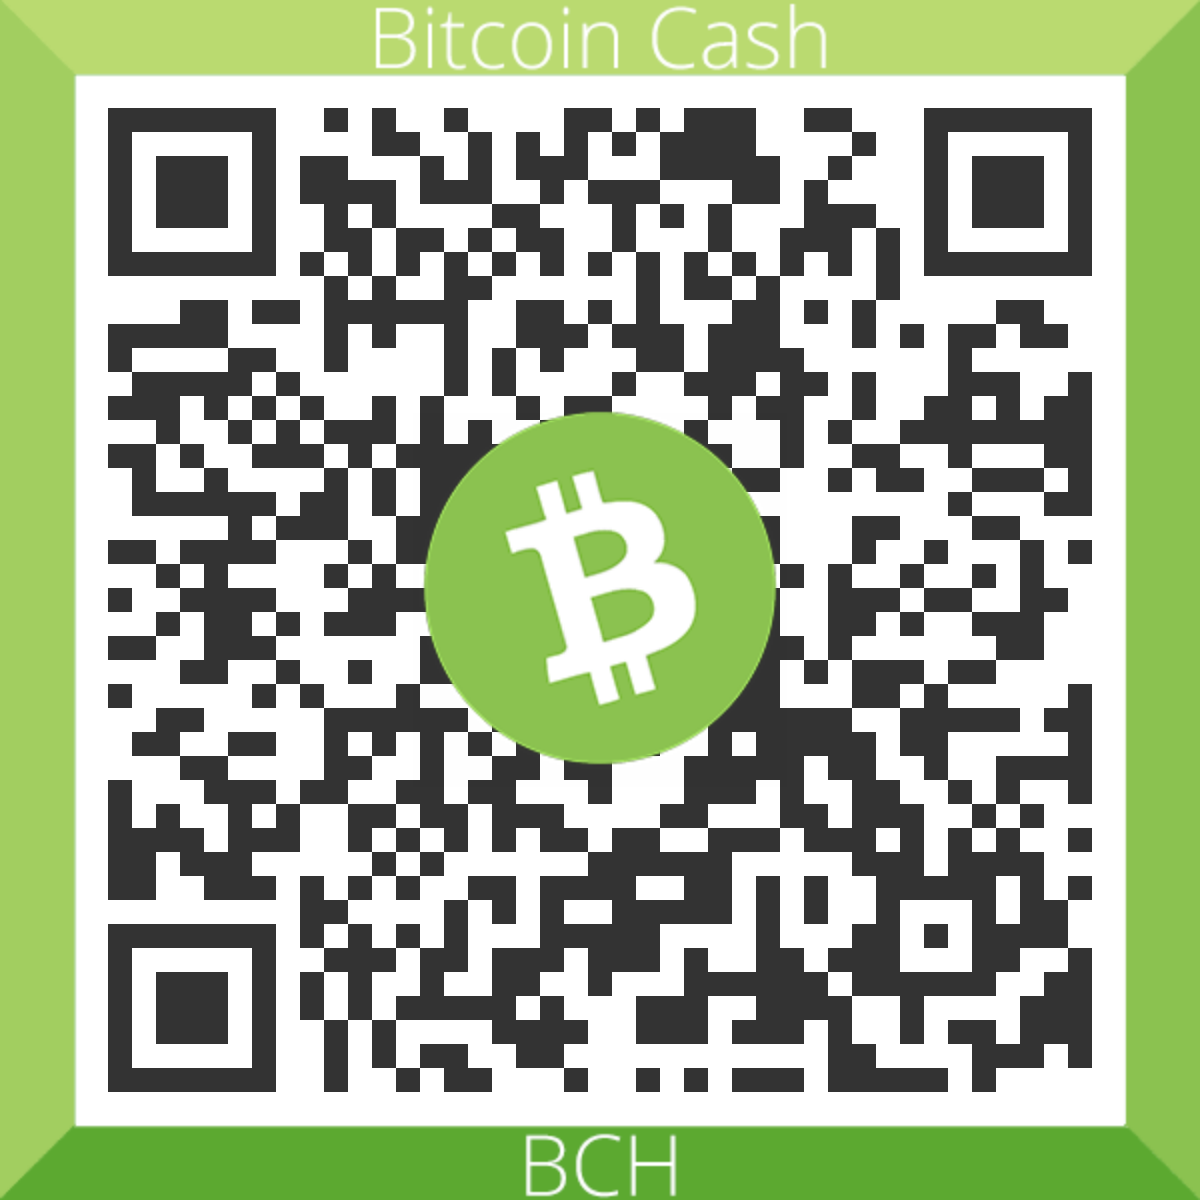
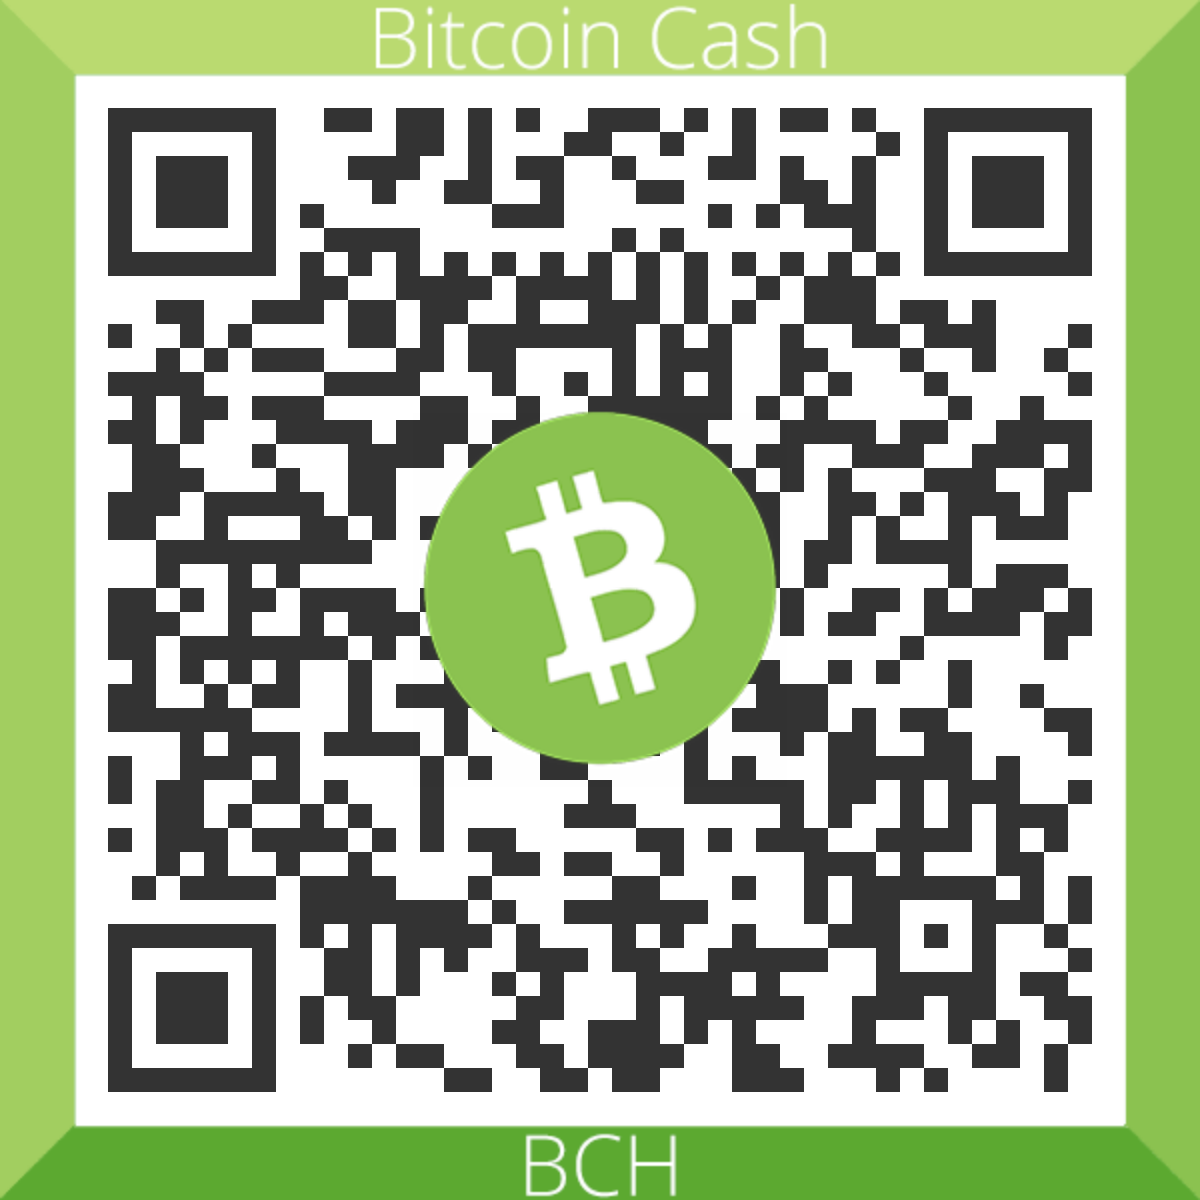
Update address.

Changed region(s): [[0.0925, 0.0925, 0.925, 0.925]]

diff --git a/docusaurus.config.js b/docusaurus.config.js
@@ -137,11 +137,11 @@ module.exports = {
         },
       ],
       logo: {
-        alt: "bitcoincash:qp8aj6cezwswjtgr4h5qzrwwgsdqrulmpu7c6pyatn",
+        alt: "bitcoincash:qpqv9wfx276atyfc068nmsvqux0w22hy4vhedrw9jr",
         src: "img/donationsQR.png",
-        href: "https://blockchair.com/bitcoin-cash/address/qp8aj6cezwswjtgr4h5qzrwwgsdqrulmpu7c6pyatn",
+        href: "https://blockchair.com/bitcoin-cash/address/qpqv9wfx276atyfc068nmsvqux0w22hy4vhedrw9jr",
       },
-      copyright: `Donations - bitcoincash:qp8aj6cezwswjtgr4h5qzrwwgsdqrulmpu7c6pyatn`,
+      copyright: `Donations - bitcoincash:qpqv9wfx276atyfc068nmsvqux0w22hy4vhedrw9jr`,
     },
     prism: {
       theme: lightCodeTheme,
